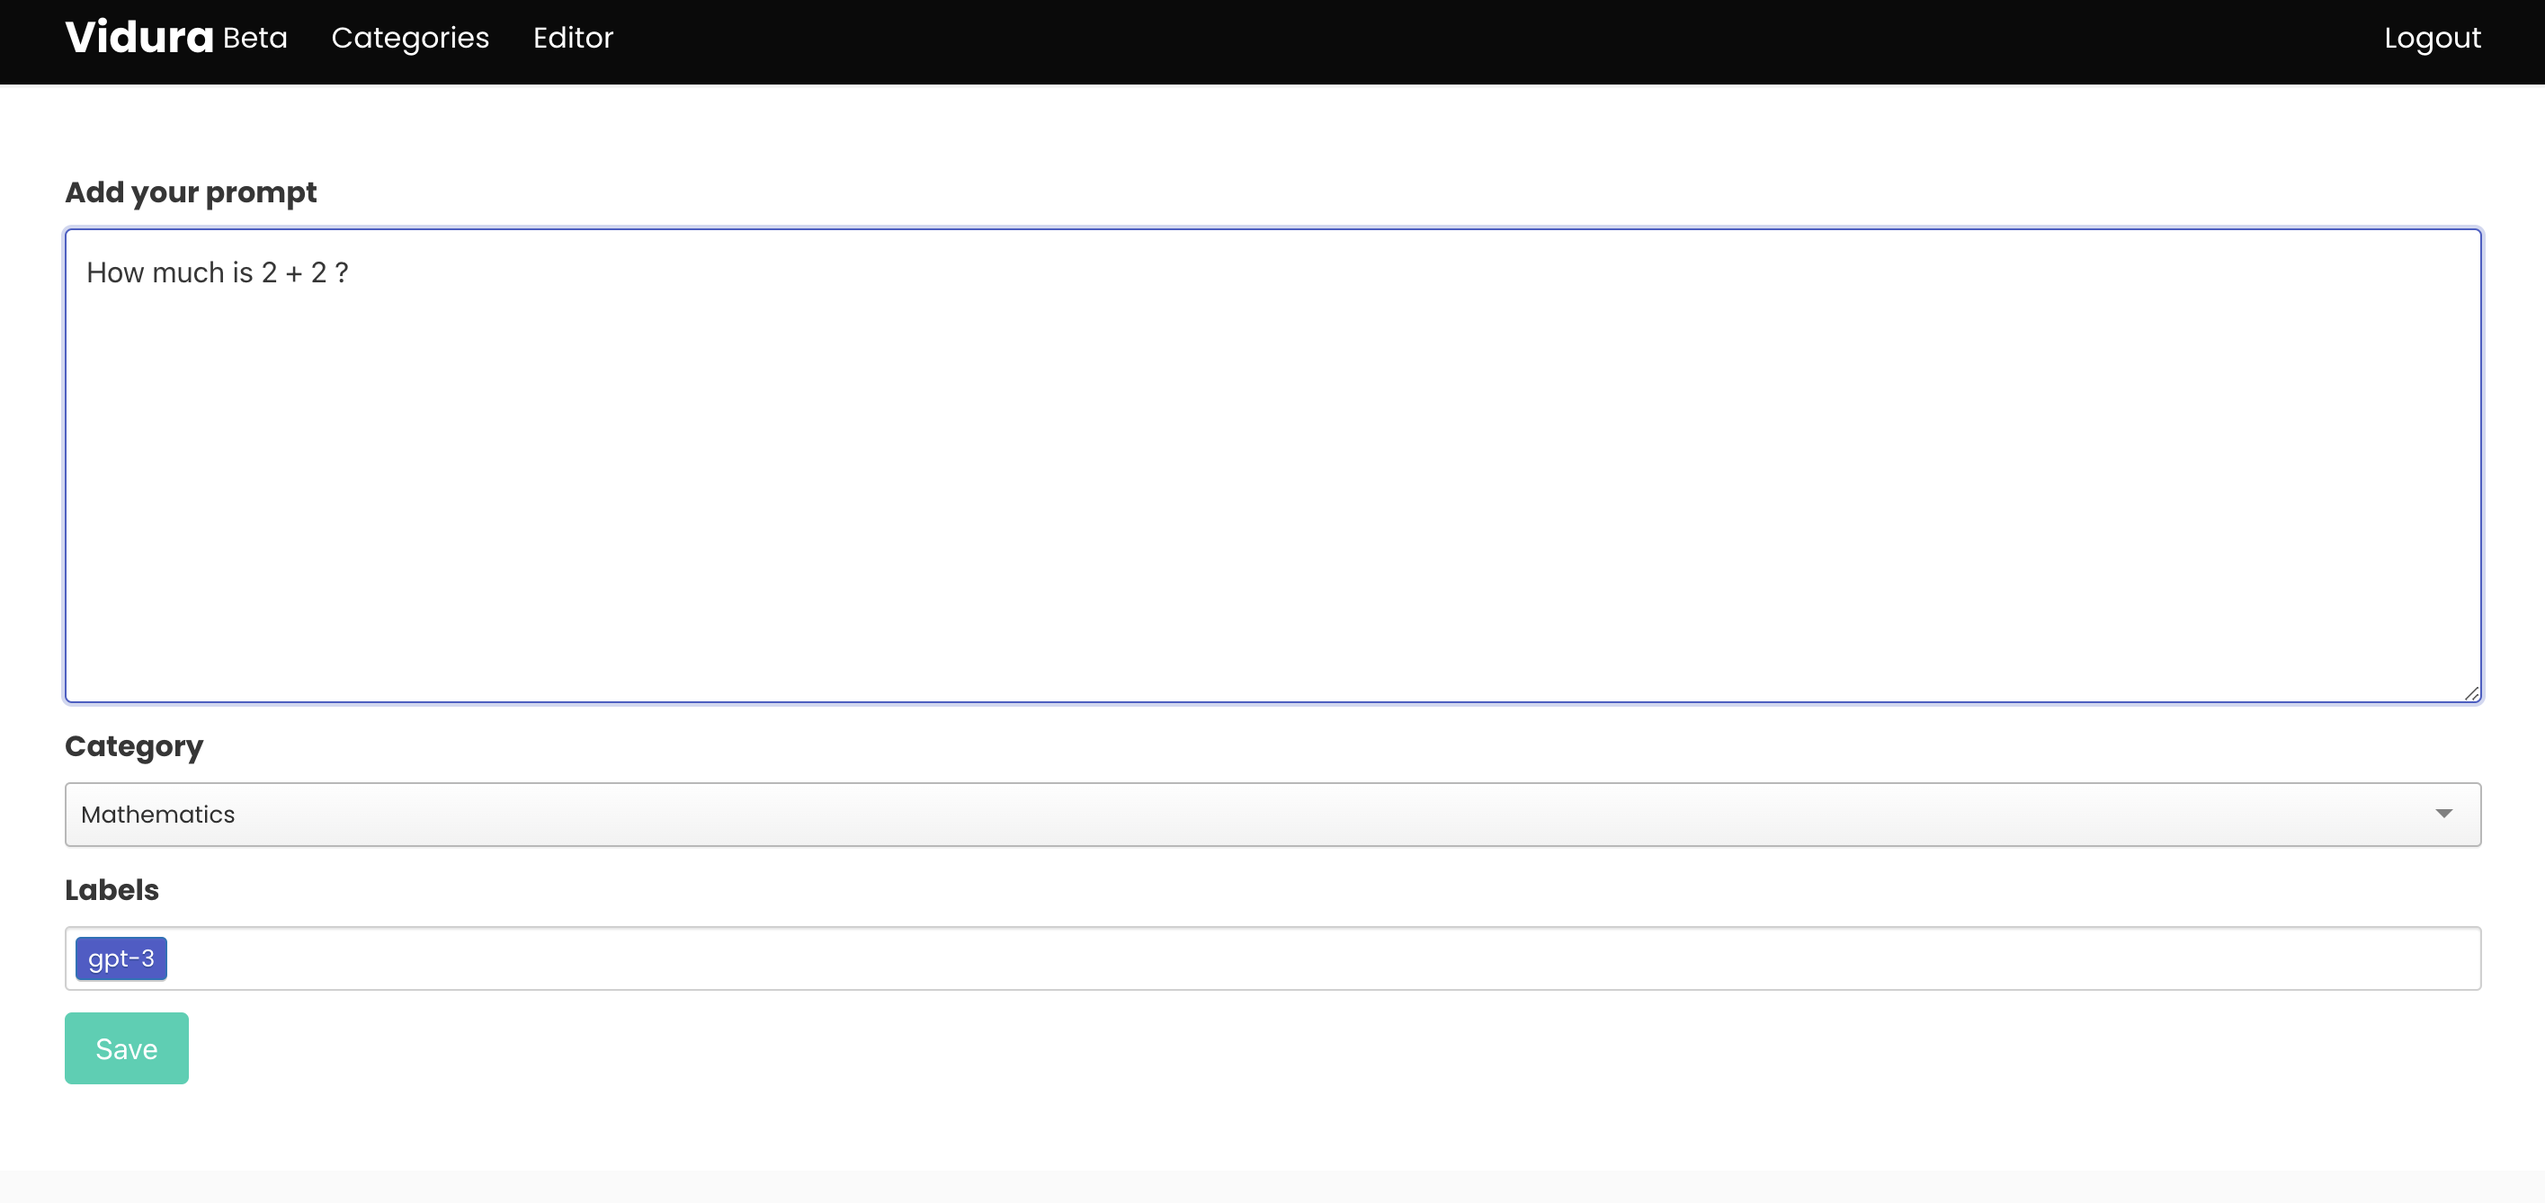
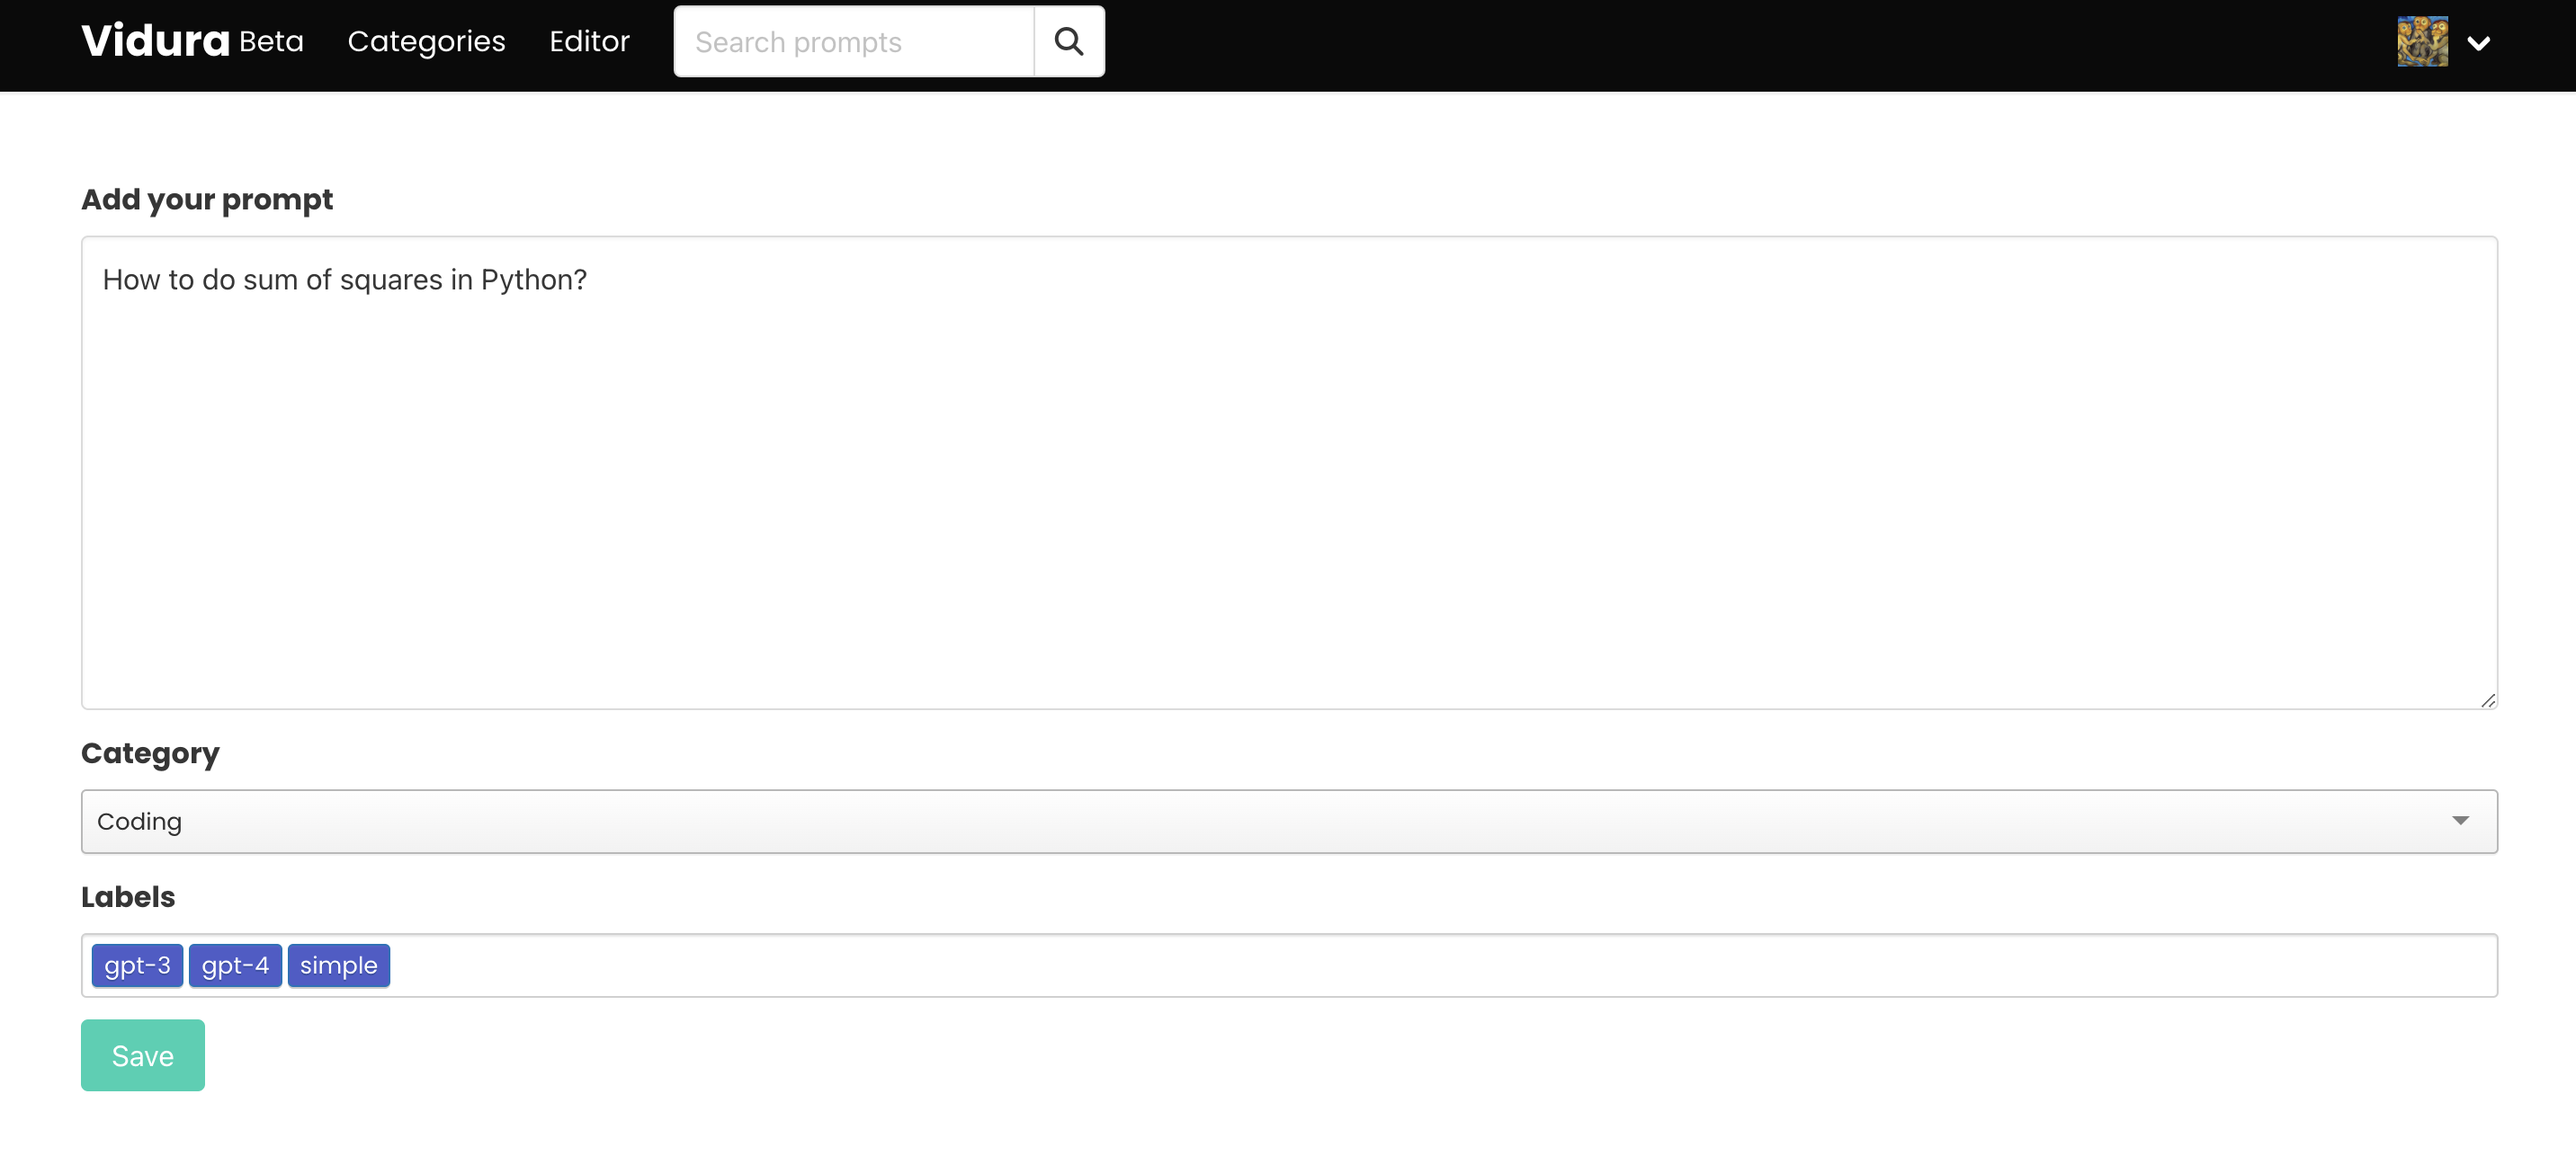
docs: add more screens

diff --git a/README.md b/README.md
@@ -23,7 +23,11 @@ Each prompt will have a list of labels attached like "gpt-3", "simple", or "comp
 ## New prompt editor view
 ![Create Prompt](./screens/create_prompt.png)
 
-## Open ChatGPT from Vidura
+## Universal search
+One can search matching categories and prompts in one place by using search bar.
+![Search](./screens/search.png)
+
+## Copy to Clipboard & Open ChatGPT from Vidura
 Click the "Copy to clipboard" button and then click the Chat GPT logo on a prompt and immediately you will be taken to a new chat of ChatGPT (make sure you logged in already). Hit Ctrl/Cmd + v to paste your prompt into ChatGPT.
 ![Open ChatGPT from Vidura](./screens/open_gpt.png)
 
